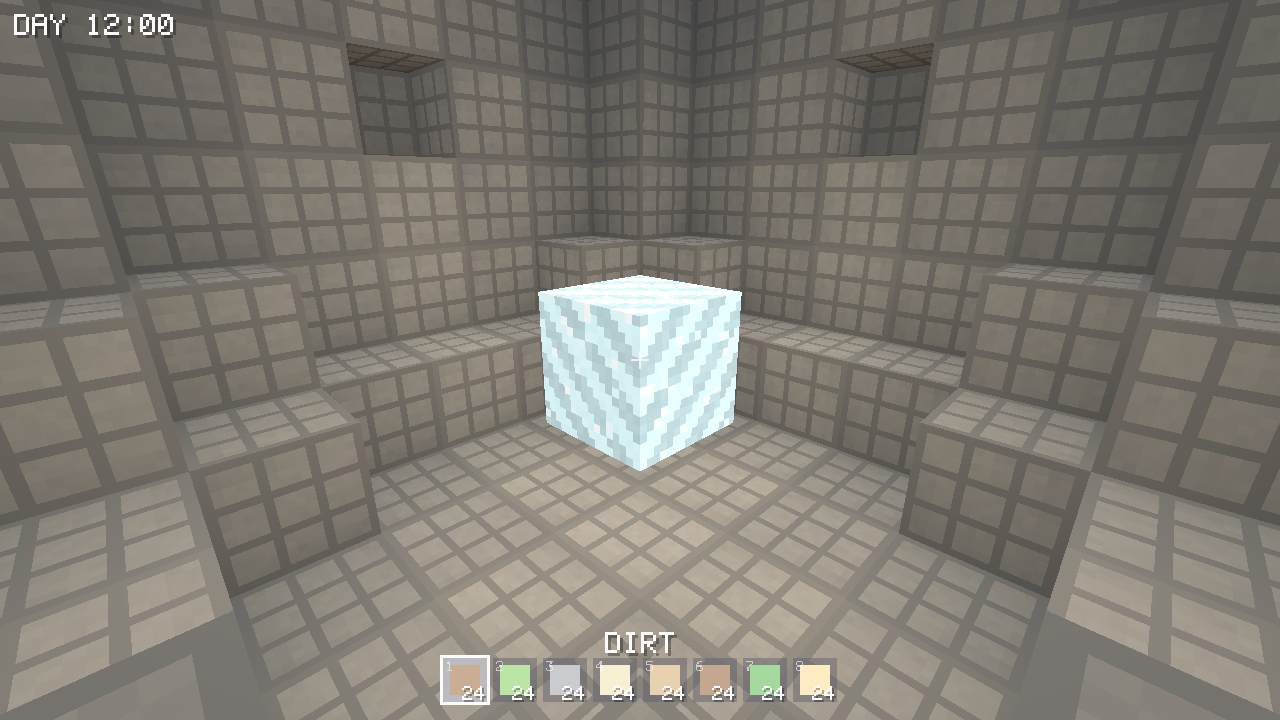
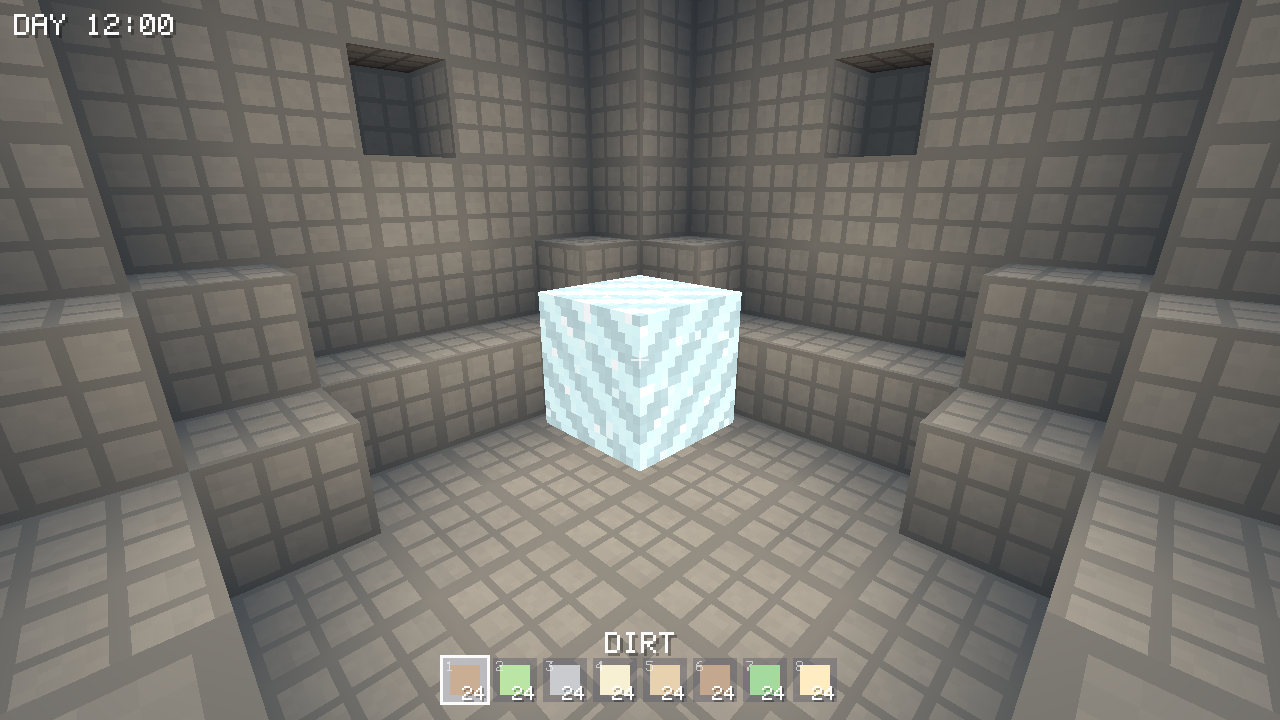
Stage 34: smooth (per-vertex) lighting
- Each face corner now averages the light of the cells touching it (sky and
  block separately), so the baked lighting interpolates smoothly across quads
  instead of stepping per-face. Lantern rooms and crystal caves get soft radial
  falloff; open daylit ground is unchanged (uniform sky light still merges into
  big quads). Corner light is part of the greedy merge key.

Mesh tests green; cave + room screenshots show the soft gradients.

diff --git a/crates/mesh/src/lib.rs b/crates/mesh/src/lib.rs
@@ -116,13 +116,15 @@ impl MeshBuffers {
         colors: [[f32; 4]; 4],
         uvs: [[f32; 2]; 4],
         layer: u32,
-        light: [f32; 2],
+        lights: [[f32; 2]; 4],
         normal: [f32; 3],
         reverse_winding: bool,
         flip_diagonal: bool,
     ) {
         let base = self.vertices.len() as u32;
-        for ((position, color), uv) in corners.into_iter().zip(colors).zip(uvs) {
+        for (((position, color), uv), light) in
+            corners.into_iter().zip(colors).zip(uvs).zip(lights)
+        {
             self.vertices.push(Vertex {
                 position,
                 normal,
@@ -189,9 +191,10 @@ struct FaceKey {
     /// Corner occlusion 0..3 (0 = darkest crevice, 3 = fully open), ordered
     /// `[(-u,-v), (+u,-v), (+u,+v), (-u,+v)]` to match emitted quad corners.
     ao: [u8; 4],
-    /// Baked `(sky, block)` light of the air cell this face opens onto, so
-    /// faces only merge where lighting is identical too.
-    light: (u8, u8),
+    /// Baked `(sky, block)` light at the four face corners (smooth lighting:
+    /// each is the average of the cells touching that corner). Part of the merge
+    /// key so faces only merge where the light gradient matches.
+    light: [(u8, u8); 4],
 }
 
 /// Per-face directional shading for a soft, cosy look. Top faces are brightest,
@@ -253,7 +256,8 @@ fn cross_pass<S: BlockSampler>(
                 let colors = [[1.0, 1.0, 1.0, alpha]; 4];
                 let layer = id.0 as u32;
                 let (sky, blk) = light.get(x, y, z);
-                let lv = [sky as f32 / 15.0, blk as f32 / 15.0];
+                let lvc = [sky as f32 / 15.0, blk as f32 / 15.0];
+                let lv = [lvc; 4];
                 // The plant tile maps once across each quad.
                 let uvs = [[0.0, 1.0], [1.0, 1.0], [1.0, 0.0], [0.0, 0.0]];
                 // Centre the billboard in the cell, sized per plant kind.
@@ -371,10 +375,9 @@ fn greedy_pass<S: BlockSampler>(
                         } else {
                             [3; 4]
                         };
-                        // Sample light from the air cell the face opens onto.
-                        let mut outer = lo;
-                        outer[d] = if positive { lo[d] + 1 } else { lo[d] };
-                        let light = light.get(outer[0], outer[1], outer[2]);
+                        // Smooth lighting: average the cells touching each of
+                        // the four face corners on the air side.
+                        let light = compute_light(light, lo, d, u, v, positive);
                         FaceKey {
                             block,
                             positive,
@@ -491,8 +494,53 @@ fn emit_quad(
     // interpolates smoothly instead of producing a hard diagonal seam.
     let flip_diagonal = key.ao[0] as i32 + key.ao[2] as i32 > key.ao[1] as i32 + key.ao[3] as i32;
 
-    let lv = [key.light.0 as f32 / 15.0, key.light.1 as f32 / 15.0];
-    out.push_quad([p0, p1, p2, p3], colors, uvs, layer, lv, normal, !key.positive, flip_diagonal);
+    let lights = [
+        [key.light[0].0 as f32 / 15.0, key.light[0].1 as f32 / 15.0],
+        [key.light[1].0 as f32 / 15.0, key.light[1].1 as f32 / 15.0],
+        [key.light[2].0 as f32 / 15.0, key.light[2].1 as f32 / 15.0],
+        [key.light[3].0 as f32 / 15.0, key.light[3].1 as f32 / 15.0],
+    ];
+    out.push_quad([p0, p1, p2, p3], colors, uvs, layer, lights, normal, !key.positive, flip_diagonal);
+}
+
+/// Smooth lighting: for each of the four face corners, average the `(sky,
+/// block)` light of the (up to four) cells touching that corner on the air
+/// side. Corners are ordered `[(-u,-v), (+u,-v), (+u,+v), (-u,+v)]`.
+fn compute_light(
+    light: &ChunkLight,
+    lo: [i32; 3],
+    d: usize,
+    u: usize,
+    v: usize,
+    positive: bool,
+) -> [(u8, u8); 4] {
+    let outer_d = if positive { lo[d] + 1 } else { lo[d] };
+    let i = lo[u];
+    let j = lo[v];
+    let sample = |ou: i32, ov: i32| -> (u16, u16) {
+        let mut p = [0i32; 3];
+        p[d] = outer_d;
+        p[u] = i + ou;
+        p[v] = j + ov;
+        let (s, b) = light.get(p[0], p[1], p[2]);
+        (s as u16, b as u16)
+    };
+    // Average the 2×2 block of cells around each corner.
+    let corner = |su: i32, sv: i32| -> (u8, u8) {
+        let a = sample(0, 0);
+        let b = sample(su, 0);
+        let c = sample(0, sv);
+        let e = sample(su, sv);
+        let sky = (a.0 + b.0 + c.0 + e.0) / 4;
+        let blk = (a.1 + b.1 + c.1 + e.1) / 4;
+        (sky as u8, blk as u8)
+    };
+    [
+        corner(-1, -1),
+        corner(1, -1),
+        corner(1, 1),
+        corner(-1, 1),
+    ]
 }
 
 /// Compute four-corner ambient occlusion for a face. `lo` is the lower voxel's
